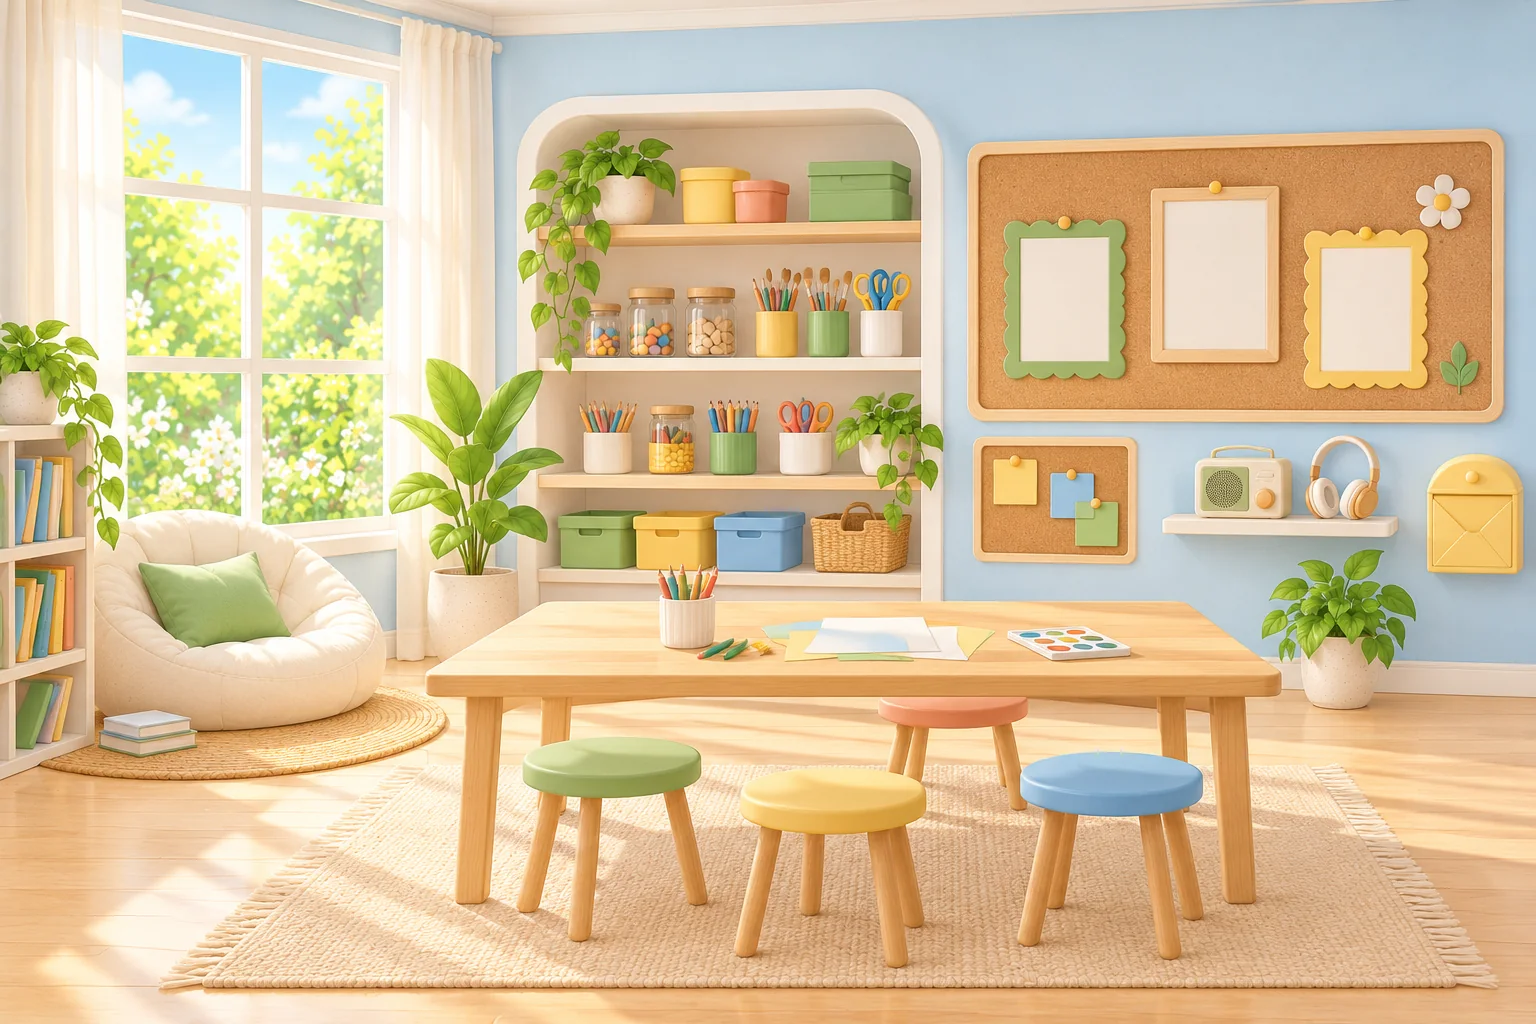
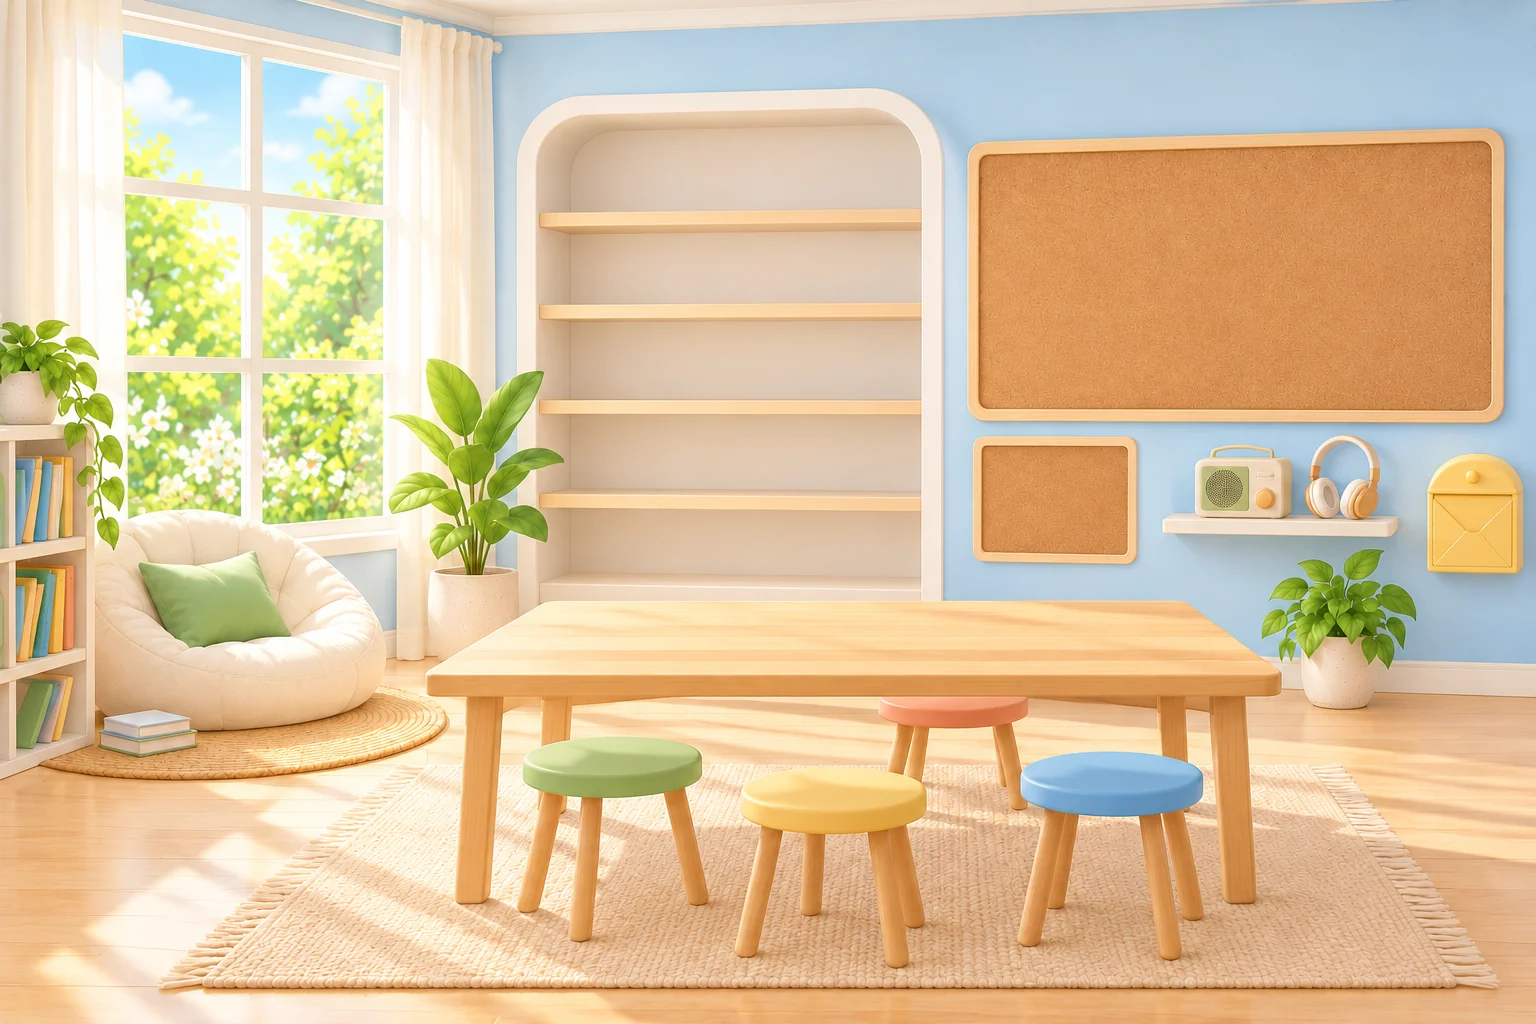
مرسمي starts EMPTY (her design): bare shelves where each of the 30 tools has its own place, shown as a soft shade in a dashed outline until she earns it, then the tool stands there (a new one arrives with a pop and sparkles); six dashed frames on the cork board for her projects; a paper note on the 

diff --git a/library.js b/library.js
@@ -154,7 +154,7 @@ function mount(api) {
 
 <section id="lstudio" class="screen lb lb-studio" dir="rtl" lang="ar" hidden>
   <div class="st-scroll" id="stScroll" dir="ltr"><div class="st-stage" id="stStage"><img class="st-room" src="assets/library/studio.webp" alt="">
-    <div id="stSpots"></div></div></div>
+    <div id="stShelf"></div><div id="stBoard"></div><div id="stSpots"></div></div></div>
   <div class="lb-top"><button class="st-back" id="stBack">مكتبتي ←</button><h1 class="st-title">مرسمي</h1></div>
   <div class="st-swipe" id="stSwipe">↔ اسحبي لتري المرسم كلّه</div>
   <div class="st-panel" id="stPanel" hidden><div class="st-pbox"><button class="st-px" id="stPx" aria-label="إغلاق">×</button><div id="stPbody"></div></div></div>
@@ -576,8 +576,8 @@ function mount(api) {
       const sceneNote = api.DEV ? `<span class="lb-scene">${esc(lf.page.scene)}</span>` : '';
       return `<div class="lb-art${has ? ' pic' : ''}${lf.kind === 'q' ? ' dim' : ''}">${img}${sceneNote}${lf.kind === 'q' ? '<span class="lb-qmark">؟</span>' : ''}</div>`;
     }
-    const ic = { other: '🔄', magic: '✨', feeling: '💬', tool: s.tool.emoji, mission: '🎯' }[lf.kind];
-    return `<div class="lb-art end ${lf.kind}"><span class="lb-end-ic">${ic}</span></div>`;
+    // the pages after the story: one picture for each kind, the same in every book (her request)
+    return `<div class="lb-art pic end ${lf.kind}"><img class="lb-pic" src="assets/library/end/${lf.kind}.webp" alt="" draggable="false"></div>`;
   }
   function content(i) {
     const lf = R.L[i], s = R.s;
@@ -594,7 +594,7 @@ function mount(api) {
       <div class="lb-keep"><span class="lb-pot" id="lbDict">📖<b>${AR(lib.feelings.length)}</b></span><small>قاموس مشاعري</small></div><button class="btn lb-next">التالي</button></div>`;
     if (lf.kind === 'tool') {
       const have = lib.tools.includes(s.id);
-      return `<div class="lb-endc"><h3>🎨 أداة جديدة للمرسم</h3><div class="lb-tool" id="lbTool"><span>${s.tool.emoji}</span></div><p class="lb-tname">${esc(s.tool.name)}</p>
+      return `<div class="lb-endc"><h3>🎨 أداة جديدة للمرسم</h3><div class="lb-tool" id="lbTool"><img src="assets/library/tools/${s.id}.webp" alt="" draggable="false"></div><p class="lb-tname">${esc(s.tool.name)}</p>
         <div class="lb-keep"><span class="lb-pot" id="lbStudio">🏠<b>${AR(lib.tools.length)}</b></span><small>مرسمي</small></div>
         <button class="btn btn-good lb-put">${have ? 'التالي' : 'ضعيها في المرسم'}</button></div>`;
     }
@@ -856,26 +856,53 @@ function mount(api) {
   /* ---------- مرسمي: the craft studio, a big painted room with places she taps ---------- */
   // each place: where it is on the painting (percent of its width and height) and its label
   const SPOTS = [
-    { id: 'tools', x: 34, y: 9, w: 27, h: 48, label: 'أدواتي', lx: 47.5, ly: 6 },
-    { id: 'gallery', x: 63, y: 12, w: 35, h: 29, label: 'معرضي', lx: 80.5, ly: 9 },
-    { id: 'missions', x: 63, y: 42.5, w: 11, h: 12.5, label: 'لوحة المهام', lx: 68.5, ly: 57 },
+    { id: 'tools', x: 35, y: 11, w: 25.5, h: 47, label: 'أدواتي', lx: 47.6, ly: 7 },
+    { id: 'gallery', x: 63, y: 12.5, w: 35, h: 29, label: 'معرضي', lx: 80.5, ly: 9 },
+    { id: 'missions', x: 63.3, y: 42.5, w: 10.7, h: 12.6, label: 'لوحة المهام', lx: 68.6, ly: 57 },
     { id: 'voice', x: 76, y: 42, w: 15, h: 10, label: 'صوتي', lx: 83.5, ly: 39 },
     { id: 'mail', x: 93, y: 44, w: 6.5, h: 12, label: 'رسائل بابا', lx: 90, ly: 59.5 },
     { id: 'corner', x: 0, y: 41, w: 28, h: 36, label: 'ركن الكلمات', lx: 15, ly: 37 },
     { id: 'table', x: 28, y: 58, w: 55, h: 34, label: 'طاولة الأعمال', lx: 55.5, ly: 93 }
   ];
   const PROJECTS = ['تلوين سكويشي', 'تصميم ملصقة', 'تزيين صندوق', 'تصميم سوار الصداقة', 'تصميم فاصل كتاب', 'صنع سكويشي بنفسكِ'];
+  // The room starts empty (her design, 14 Oct 2026): every tool has its own place on the five bare shelves, six to a shelf, in book
+  // order. A tool she has not earned yet shows only as a soft shade inside a dashed outline; when she earns it, it stands there.
+  // [bottom of the shelf, height of the space above it], in percent of the painting; the shelves run from SHELF_X0 to SHELF_X1.
+  const SHELF_ROWS = [[21.1, 6.1], [30.3, 6.5], [39.6, 6.8], [48.4, 6.6], [56.4, 5.7]], SHELF_X0 = 35.7, SHELF_X1 = 59.6;
+  // the big cork board: one dashed frame for each of the six projects; the small board: the missions she kept for «لاحقاً»
+  const FRAMES = [[65.1, 15.6], [76.2, 15.6], [87.3, 15.6], [65.1, 28.3], [76.2, 28.3], [87.3, 28.3]];
+  const SEEN_KEY = 'tc:maria:studioSeen';   // how many tools she has already seen in the room (so a new one arrives with a pop)
+  function shelfHTML(fresh) {
+    const step = (SHELF_X1 - SHELF_X0) / 6;
+    return ST.map((s, i) => {
+      const [base, h] = SHELF_ROWS[Math.floor(i / 6)] || SHELF_ROWS[4], got = lib.tools.includes(s.id);
+      return `<div class="st-slot${got ? ' got' : ''}${got && fresh.has(s.id) ? ' new' : ''}" data-id="${s.id}" style="left:${(SHELF_X0 + step * (i % 6) + step * 0.06).toFixed(2)}%;top:${(base - h).toFixed(2)}%;width:${(step * 0.88).toFixed(2)}%;height:${h}%"><img src="assets/library/tools/${s.id}.webp" alt="" draggable="false"></div>`;
+    }).join('');
+  }
+  function boardHTML() {
+    const n = lib.tools.length;
+    const frames = FRAMES.map(([x, y], i) => `<div class="st-frame${n >= (i + 1) * 5 ? ' open' : ''}" style="left:${x}%;top:${y}%"><i></i><span>${AR(i + 1)}</span></div>`).join('');
+    const later = Object.values(lib.missions).filter(m => m.state === 'later').length;
+    const notes = Array.from({ length: Math.min(later, 4) }, (_, k) => `<div class="st-stick c${k}" style="left:${64.4 + (k % 2) * 4.6}%;top:${43.9 + Math.floor(k / 2) * 5.2}%"></div>`).join('');
+    return frames + notes;
+  }
   function openStudio() {
     leaveRoom();
+    let seen = 0; try { seen = Number(localStorage.getItem(SEEN_KEY)) || 0; } catch (e) {}
+    const fresh = new Set(lib.tools.slice(seen));
+    $('#stShelf').innerHTML = shelfHTML(fresh);
+    try { localStorage.setItem(SEEN_KEY, String(lib.tools.length)); } catch (e) {}
     renderSpots();
     api.show('lstudio');
     const sc = $('#stScroll'); sc.scrollLeft = (sc.scrollWidth - sc.clientWidth) / 2;
     const sw = $('#stSwipe'); sw.hidden = sc.scrollWidth - sc.clientWidth < 120;     // the room is wider than the screen: show how to see it all
     sc.addEventListener('scroll', () => { sw.hidden = true; }, { once: true, passive: true });
+    if (fresh.size) setTimeout(() => { document.querySelectorAll('#stShelf .st-slot.new').forEach(el => sparkle(el)); SND.chime(0.05, 0.5); }, 650);
   }
   function renderSpots() {
     const later = Object.values(lib.missions).filter(m => m.state === 'later').length;
     const badge = { tools: `${AR(lib.tools.length)}/${AR(ST.length)}`, missions: later ? AR(later) : '', corner: lib.notebook.length + lib.feelings.length ? AR(lib.notebook.length + lib.feelings.length) : '' };
+    $('#stBoard').innerHTML = boardHTML();
     $('#stSpots').innerHTML = SPOTS.map(p => `<button class="st-spot" data-a="${p.id}" style="left:${p.x}%;top:${p.y}%;width:${p.w}%;height:${p.h}%" aria-label="${p.label}"></button>
       <span class="st-label" dir="rtl" style="left:${p.lx}%;top:${p.ly}%">${p.label}${badge[p.id] ? `<b dir="ltr">${badge[p.id]}</b>` : ''}</span>`).join('');
   }
@@ -884,7 +911,7 @@ function mount(api) {
     const n = lib.tools.length;
     if (id === 'tools') {
       panel(`<h2>أدواتي</h2><p>جمعتِ ${AR(n)} من ${AR(ST.length)} أداة. كلّ كتاب تُكملينه يضع أداة جديدة هنا.</p>
-        <div class="st-tools">${ST.map(s => lib.tools.includes(s.id) ? `<div class="st-tool got"><span>${s.tool.emoji}</span><small>${esc(s.tool.name)}</small></div>`
+        <div class="st-tools">${ST.map(s => lib.tools.includes(s.id) ? `<div class="st-tool got"><img src="assets/library/tools/${s.id}.webp" alt=""><small>${esc(s.tool.name)}</small></div>`
           : `<div class="st-tool"><span>؟</span><small>الكتاب ${AR(s.day)}</small></div>`).join('')}</div>`);
     } else if (id === 'corner') {
       const nb = lib.notebook.map(i => byId[i]).filter(Boolean), fl = lib.feelings.map(i => byId[i]).filter(Boolean);

diff --git a/style.css b/style.css
@@ -793,7 +793,7 @@ button.mx-sticker:active { transform: scale(.9); }
   .mx-stickers { max-width: none; }
 }
 @media (prefers-reduced-motion: reduce) {
-  .mx-ans.empty, .mx-ans.ok, .mx-ans.no, .mx-again, .mx-mic.on, .back .mx-line, .mx-reward.pop .star, .mx-sticker.current, .mx-cardbox.enter { animation: none; }
+  .mx-ans.empty, .mx-ans.ok, .mx-ans.no, .mx-again, .mx-mic.on, .st-slot.new img, .back .mx-line, .mx-reward.pop .star, .mx-sticker.current, .mx-cardbox.enter { animation: none; }
 }
 
 /* Home footer (both decks): the credit, and under it a one-tap backup of all progress */
@@ -1402,6 +1402,22 @@ body[data-profile="mama"] .deck-lib { display: none; }
 .st-scroll::-webkit-scrollbar { display: none; }
 .st-stage { position: relative; width: max(100vw, 150vh); height: max(100vh, 66.667vw); }
 .st-room { position: absolute; inset: 0; width: 100%; height: 100%; object-fit: cover; display: block; user-select: none; -webkit-user-drag: none; }
+/* the empty shelves: each tool's own place; a dashed outline and a soft shade until she earns it */
+#stShelf, #stBoard { position: absolute; inset: 0; pointer-events: none; }
+.st-slot { position: absolute; display: flex; align-items: flex-end; justify-content: center; border: 2px dashed rgba(150, 112, 74, .42); border-bottom: 0; border-radius: 10px 10px 0 0; }
+.st-slot img { max-width: 86%; max-height: 88%; object-fit: contain; filter: brightness(0) opacity(.13); -webkit-user-drag: none; }
+.st-slot.got { border-color: transparent; }
+.st-slot.got img { max-width: 100%; max-height: 100%; filter: drop-shadow(0 3px 2px rgba(90, 55, 20, .28)); }
+.st-slot.new img { animation: stpop .8s cubic-bezier(.3, 1.6, .5, 1) both; }
+@keyframes stpop { from { transform: translateY(-40%) scale(.2); opacity: 0; } }
+/* the big cork board: a dashed frame for each project, waiting for her work */
+.st-frame { position: absolute; width: 8.6%; height: 10.6%; display: grid; place-items: center; border: 2.5px dashed rgba(255, 255, 255, .85); border-radius: 10px; background: rgba(255, 255, 255, .16); }
+.st-frame i { position: absolute; top: -7%; left: 50%; width: 14px; height: 14px; transform: translateX(-50%); border-radius: 50%; background: #FF8FB6; box-shadow: 0 2px 2px rgba(80, 40, 20, .3); }
+.st-frame span { font-family: var(--baloo); font-weight: 800; font-size: clamp(16px, 1.6vw, 24px); color: rgba(255, 255, 255, .9); }
+.st-frame.open { border-style: solid; border-color: #FFD25E; background: rgba(255, 244, 205, .35); }
+/* the small board: one paper note for each mission kept for «لاحقاً» */
+.st-stick { position: absolute; width: 3.9%; height: 4.6%; border-radius: 3px; background: #FFE58A; box-shadow: 0 3px 4px rgba(80, 50, 20, .25); transform: rotate(-4deg); }
+.st-stick.c1 { background: #BDE8FF; transform: rotate(3deg); } .st-stick.c2 { background: #FFC6DA; transform: rotate(2deg); } .st-stick.c3 { background: #C9F0C2; transform: rotate(-3deg); }
 .st-spot { position: absolute; padding: 0; border: 0; border-radius: 18px; background: transparent; cursor: pointer; -webkit-tap-highlight-color: transparent; transition: background .2s, box-shadow .2s; }
 .st-spot:active { background: rgba(255, 255, 255, .22); box-shadow: 0 0 0 4px rgba(245, 184, 46, .55); }
 .st-label { position: absolute; transform: translate(-50%, -50%); display: inline-flex; align-items: center; gap: 6px; padding: 4px 16px 6px; white-space: nowrap; pointer-events: none;
@@ -1421,6 +1437,7 @@ body[data-profile="mama"] .deck-lib { display: none; }
 .st-tools { display: grid; grid-template-columns: repeat(auto-fill, minmax(92px, 1fr)); gap: 10px; margin-top: 12px; }
 .st-tool { display: flex; flex-direction: column; align-items: center; gap: 4px; padding: 10px 4px; border-radius: 20px; background: #F4F7F8; color: rgba(43, 58, 68, .45); }
 .st-tool span { font-size: 36px; line-height: 1.2; } .st-tool small { font-size: 14px; font-weight: 700; }
+.st-tool img { width: 52px; height: 52px; object-fit: contain; }
 .st-tool.got { background: #FFFBEC; color: var(--ink); box-shadow: inset 0 0 0 2px #F5D47A; }
 .st-list { list-style: none; margin: 0; padding: 0; display: grid; gap: 8px; text-align: right; }
 .st-list li { padding: 10px 16px; border-radius: 18px; background: #F2F8F4; } .st-list b { display: block; font-family: var(--naskh); font-size: 21px; line-height: 1.9; } .st-list small { color: rgba(43, 58, 68, .55); }
@@ -1543,6 +1560,8 @@ body[data-profile="mama"] .deck-lib { display: none; }
 .lb-art.end.feeling { background: radial-gradient(circle at 50% 45%, #FFEAF3, #FFC5DB 75%); }
 .lb-art.end.tool { background: radial-gradient(circle at 50% 45%, #EFFCF5, #B8F0D8 75%); }
 .lb-art.end.mission { background: radial-gradient(circle at 50% 45%, #FFF3E0, #FFD9A8 75%); }
+/* the pages after the story now have their own fixed pictures, framed like the story pictures */
+.pg .lb-art.end.pic { background: none; }
 .lb-end-ic { font-size: clamp(90px, 14vmin, 150px); line-height: 1; filter: drop-shadow(0 8px 12px rgba(60, 35, 15, .2)); }
 .lb-txt { flex: 1; display: grid; place-items: center; padding: 8% 9%; }
 .pg-body .lb-txt { padding: 4% 8% 6%; }
@@ -1593,6 +1612,7 @@ body[data-profile="mama"] .deck-lib { display: none; }
 .lb-word { font-family: var(--naskh); font-size: clamp(44px, 5.6vw, 66px); line-height: 1.6; color: #D4578D; }
 .lb-tool { width: 150px; height: 150px; display: grid; place-items: center; border-radius: 50%; background: radial-gradient(circle at 40% 35%, #FFFFFF, #DDF7EA 60%, #8FE3BF); box-shadow: 0 8px 20px rgba(79, 191, 142, .35); }
 .lb-tool span { font-size: 84px; line-height: 1; }
+.lb-tool img { width: 72%; height: 72%; object-fit: contain; filter: drop-shadow(0 4px 4px rgba(60, 40, 20, .22)); -webkit-user-drag: none; }
 .lb-tool.pop { animation: lbToolPop 1s cubic-bezier(.3, 1.5, .5, 1) both; }
 @keyframes lbToolPop { 0% { transform: scale(0) rotate(-40deg); } 70% { transform: scale(1.12) rotate(8deg); } 100% { transform: scale(1) rotate(0); } }
 .lb-tname { margin: 0; font-size: clamp(24px, 2.6vw, 32px); font-weight: 800; }

diff --git a/sw.js b/sw.js
@@ -2,7 +2,7 @@
    Bump VERSION on every deploy so the iPad picks up new files (sets.json, audio/). */
 // The same file serves both apps: Talk Cards registers sw.js, Prepositions registers sw.js?app=prepositions.
 const APP = new URL(location.href).searchParams.get('app') === 'prepositions' ? 'prepositions' : 'talk-cards';
-const VERSION = APP + '-v36';
+const VERSION = APP + '-v37';
 const FILES = APP === 'prepositions' ? [
   './',
   'index.html',
@@ -58,6 +58,14 @@ const FILES = APP === 'prepositions' ? [
   'assets/library/leaves.webp',
   'assets/library/medal.webp',
   'assets/library/studio.webp',
+  // the pictures of the pages after every story
+  'assets/library/end/other.webp',
+  'assets/library/end/magic.webp',
+  'assets/library/end/feeling.webp',
+  'assets/library/end/tool.webp',
+  'assets/library/end/mission.webp',
+  // the 30 tools that stand on the studio shelves (one for each book)
+  ...Array.from({ length: 30 }, (_, i) => `assets/library/tools/d${String(i + 1).padStart(2, '0')}.webp`),
   'assets/library/deco/frame.webp',
   'assets/library/deco/plant.webp',
   'assets/library/deco/camel.webp',
